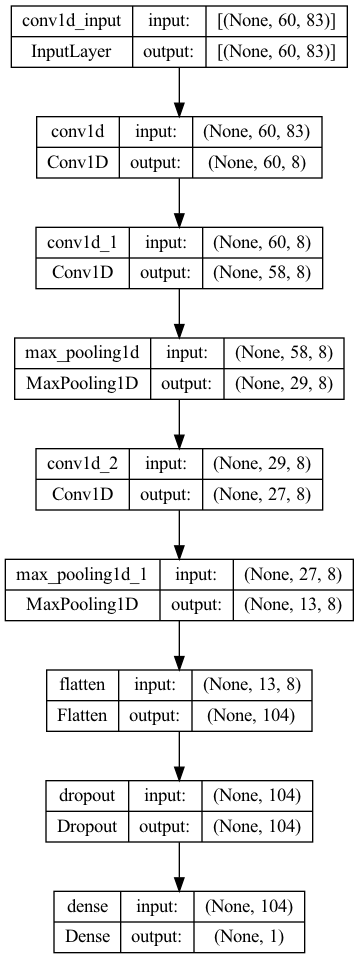
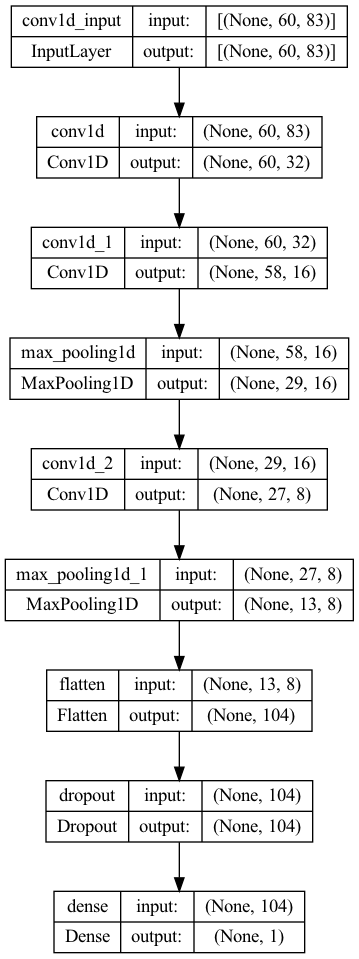
reset commit

diff --git a/LSTM/CNNpred.py b/LSTM/CNNpred.py
@@ -7,8 +7,8 @@ import pandas as pd
 import tensorflow as tf
 from datetime import datetime
 from keras import backend
-from keras.layers import Dense, LSTM, Conv1D, MaxPool1D, Flatten, Dropout
-from keras.models import Sequential
+from keras.layers import Dense, LSTM, Conv1D, MaxPool1D, Flatten, Dropout, Input, Permute, BatchNormalization, GlobalAveragePooling1D, concatenate, Activation
+from keras.models import Sequential, Model
 from keras.utils import timeseries_dataset_from_array
 from keras.utils.vis_utils import plot_model
 from sklearn.metrics import accuracy_score as accuracy, f1_score, mean_absolute_error as mae, mean_squared_error as mse
@@ -126,6 +126,65 @@ def create_tf_dataset(
     # print(dataset._variant_tensor)
 
     return dataset.prefetch(16).cache()
+
+def FCN_LSTM_model(
+        train_dataset: np.ndarray,
+        val_dataset: np.ndarray,
+        input_sequence_length: int,
+        number_feature: int,
+        epochs: int
+):
+    input_shape = (input_sequence_length, number_feature)
+    input_layer = Input(input_shape)
+
+    # perm_layer = Permute((2, 1))(input_layer)
+    lstm_layer = LSTM(128)(input_layer)
+    lstm_layer = Dense(8)(lstm_layer)
+    # lstm_layer = Dropout(0.8)(lstm_layer)
+
+    conv1 = Conv1D(filters=128, kernel_size=8, padding='same')(input_layer)
+    conv1 = BatchNormalization()(conv1)
+    # conv1 = Activation(activation='relu')(conv1)
+
+    conv2 = Conv1D(filters=256, kernel_size=5, padding='same')(conv1)
+    conv2 = BatchNormalization()(conv2)
+    # conv2 = Activation('relu')(conv2)
+
+    conv3 = Conv1D(128, kernel_size=3, padding='same')(conv2)
+    conv3 = BatchNormalization()(conv3)
+    # conv3 = Activation('relu')(conv3)
+
+    gap_layer = GlobalAveragePooling1D()(conv3)
+
+    gap_layer = Dense(8)(gap_layer)
+
+
+    concat = concatenate([gap_layer, lstm_layer])
+
+
+    output_layer = Dense(1)(concat)
+
+    model = Model(inputs=input_layer, outputs=output_layer)
+    plot_model(model, to_file='{}-{},{}-{}feature.png'.format(model_input, filter, units, number_feature),
+               show_shapes=True, show_layer_names=True)
+
+    model.compile(loss='mae', optimizer='adam')
+    history = model.fit(train_dataset, validation_data=val_dataset, epochs=epochs)
+
+    # list all data in history
+    print(history.history.keys())
+    # summarize history for loss
+    # pl.figure(2)
+    plt.figure(global_stock)
+    plt.plot(history.history['loss'])
+    plt.plot(history.history['val_loss'])
+    plt.title('model loss')
+    plt.ylabel('loss')
+    plt.xlabel('epoch')
+    plt.legend(['train', 'test'], loc='upper left')
+    plt.savefig("Loss-{}-{}.png".format(filepath, global_stock))
+
+    return model
 
 def CNN_LSTM_model(
         train_dataset: np.ndarray,
@@ -302,11 +361,11 @@ input_sequence_length = 60
 forecast_horizon = 1
 epochs = 200
 add_all_datasets_data = True
-model_input="CNNpred" #CNNpred, CNN-LSTM
+model_input="FCN-LSTM" #CNNpred, CNN-LSTM
 filter=128
 units=128
 
-filepath = "{}-{}-{}-{}-{}-{}-{}-{}".format(
+filepath = "{}-{}-{}-{}-{}-{}-{}-{}-32,16".format(
     model_input,
     input_sequence_length,
     number_feature,
@@ -406,8 +465,18 @@ if add_all_datasets_data:
             epochs
         )
 
-    else:
+
+    elif model_input == "CNNpred":
         model = CNNpred_model(
+            concat_ds,
+            concat_ds1,
+            input_sequence_length,
+            number_feature,
+            epochs
+        )
+
+    else:
+        model = FCN_LSTM_model(
             concat_ds,
             concat_ds1,
             input_sequence_length,
@@ -417,7 +486,6 @@ if add_all_datasets_data:
 
 
     for stock in stocks:
-        global_stock = stock
         results[stock], y[stock], y_pred[stock] = predict(model, test_datasets[stock])
 
     plot_predicted_result(y, y_pred, means, stds)
@@ -426,6 +494,7 @@ else:
 
 
     for stock in stocks:
+        global_stock = stock
         if model_input == "CNN-LSTM":
             model = CNN_LSTM_model(
                 train_datasets[stock],
@@ -435,7 +504,7 @@ else:
                 epochs
             )
 
-        else:
+        elif model_input=="CNNpred":
             model = CNNpred_model(
                 train_datasets[stock],
                 val_datasets[stock],
@@ -444,7 +513,14 @@ else:
                 epochs
             )
 
-        global_stock = stock
+        else:
+            model = FCN_LSTM_model(
+                train_datasets[stock],
+                val_datasets[stock],
+                input_sequence_length,
+                number_feature,
+                epochs
+            )
         results[stock], y[stock], y_pred[stock]  = predict(model, test_datasets[stock])
 
     plot_predicted_result(y, y_pred, means, stds)
